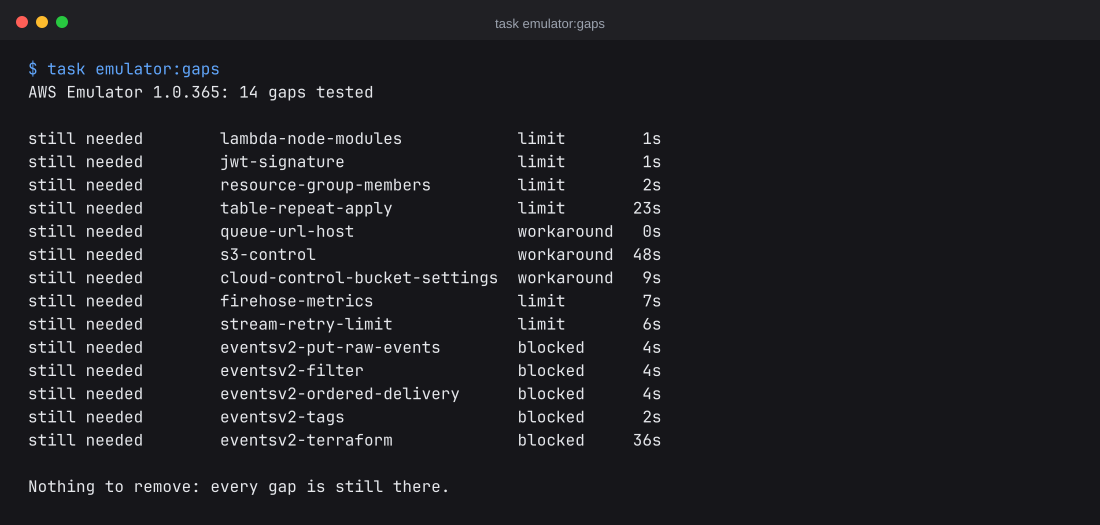
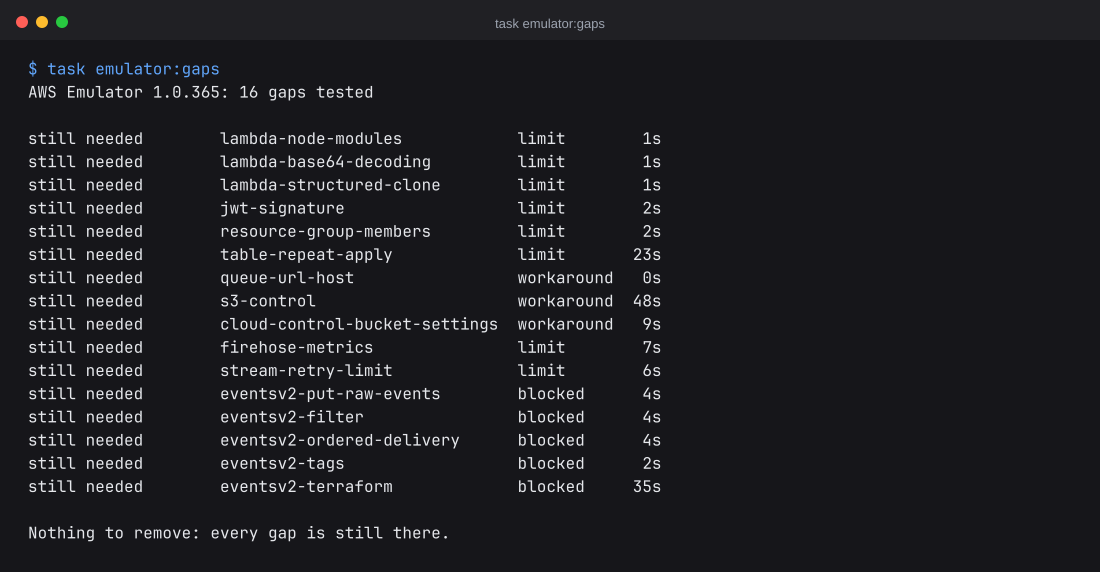
blog: the gaps screenshot and count are today's, sixteen
Claude-Session: https://claude.ai/code/session_01RQF49WmbdeeHptxLuAVvLW

diff --git a/src/content/blog/2026-11-16-asyncapi-cloudevents-data-contract-software-factory-unit.md b/src/content/blog/2026-11-16-asyncapi-cloudevents-data-contract-software-factory-unit.md
@@ -187,9 +187,9 @@ Partly. The event is a proper CloudEvent on the queue and in S3. On a classic bu
 
 A limit like that is easy to write down and forget. Every gap in the emulator that the template works around, lives with or waits for is now listed with a test, and one command runs them.
 
-![Terminal output of task emulator:gaps on AWS Emulator 1.0.365. Fourteen gaps tested and every one reported as still needed. Six are limits such as jwt-signature and firehose-metrics, three are workarounds such as queue-url-host and s3-control, and five are blocked, all starting eventsv2, including eventsv2-put-raw-events and eventsv2-ordered-delivery. The last line reads nothing to remove, every gap is still there](/assets/2026-11-16-asyncapi-cloudevents-data-contract-software-factory-unit/gaps.png)
+![Terminal output of task emulator:gaps on AWS Emulator 1.0.365. Sixteen gaps tested and every one reported as still needed. Eight are limits such as jwt-signature and firehose-metrics, three are workarounds such as queue-url-host and s3-control, and five are blocked, all starting eventsv2, including eventsv2-put-raw-events and eventsv2-ordered-delivery. The last line reads nothing to remove, every gap is still there](/assets/2026-11-16-asyncapi-cloudevents-data-contract-software-factory-unit/gaps.png)
 
-The five marked blocked are the new bus. When the emulator version moves, the same command runs on that pull request and reports. Once the new version is on `main`, a gap that has closed raises an issue naming what can be removed. Run against the newest emulator release, one of the fourteen had already closed.
+The five marked blocked are the new bus. When the emulator version moves, the same command runs on that pull request and reports. Once the new version is on `main`, a gap that has closed raises an issue naming what can be removed. Run against the newest emulator release, one of them had already closed.
 
 ## The Same Green Tick
 
